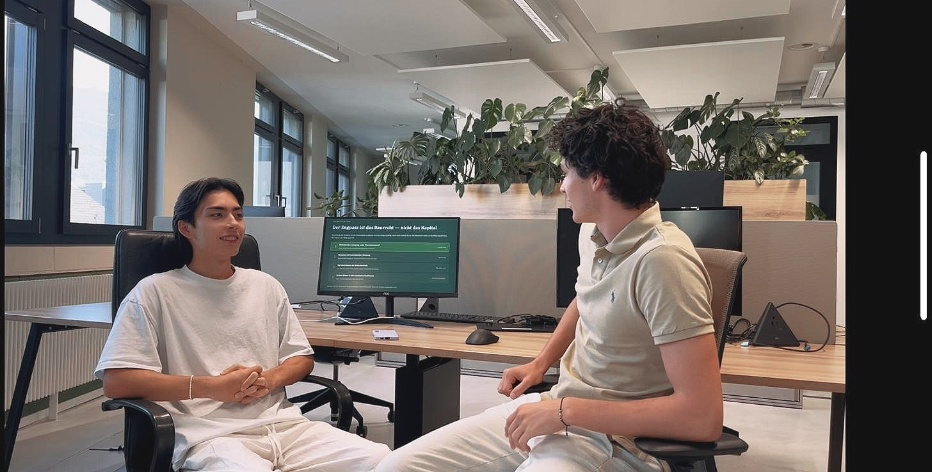
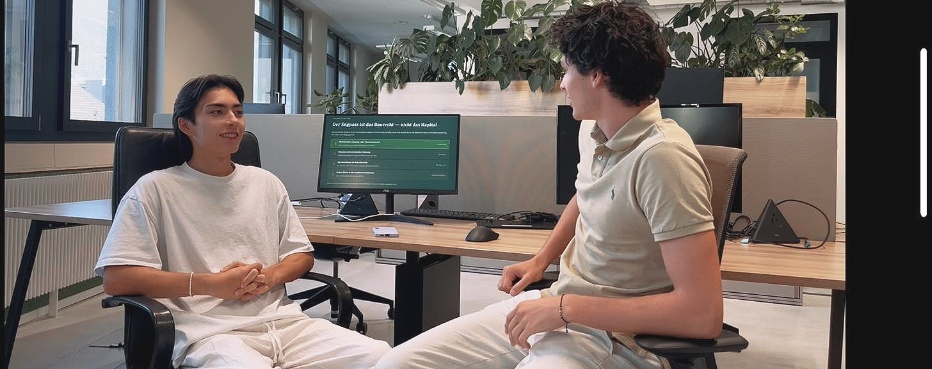
Crop excess ceiling from team photo and anchor to center bottom (object-position: center bottom) so bodies and desk are prominently visible

diff --git a/index.html b/index.html
@@ -1139,7 +1139,7 @@
       
       <!-- HERO TITLE BANNER: TEAM WORKPLACE PHOTO -->
       <div class="page-title-hero">
-        <img class="page-hero-image" src="assets/title-team.jpg?v=4" alt="LUMA LIVING Gründerteam bei der Arbeit" style="object-position: 45% 65%;">
+        <img class="page-hero-image" src="assets/title-team.jpg?v=5" alt="LUMA LIVING Gründerteam bei der Arbeit" style="object-position: center bottom;">
         <div class="page-hero-scrim"></div>
         <div class="container">
           <div class="page-hero-content">
